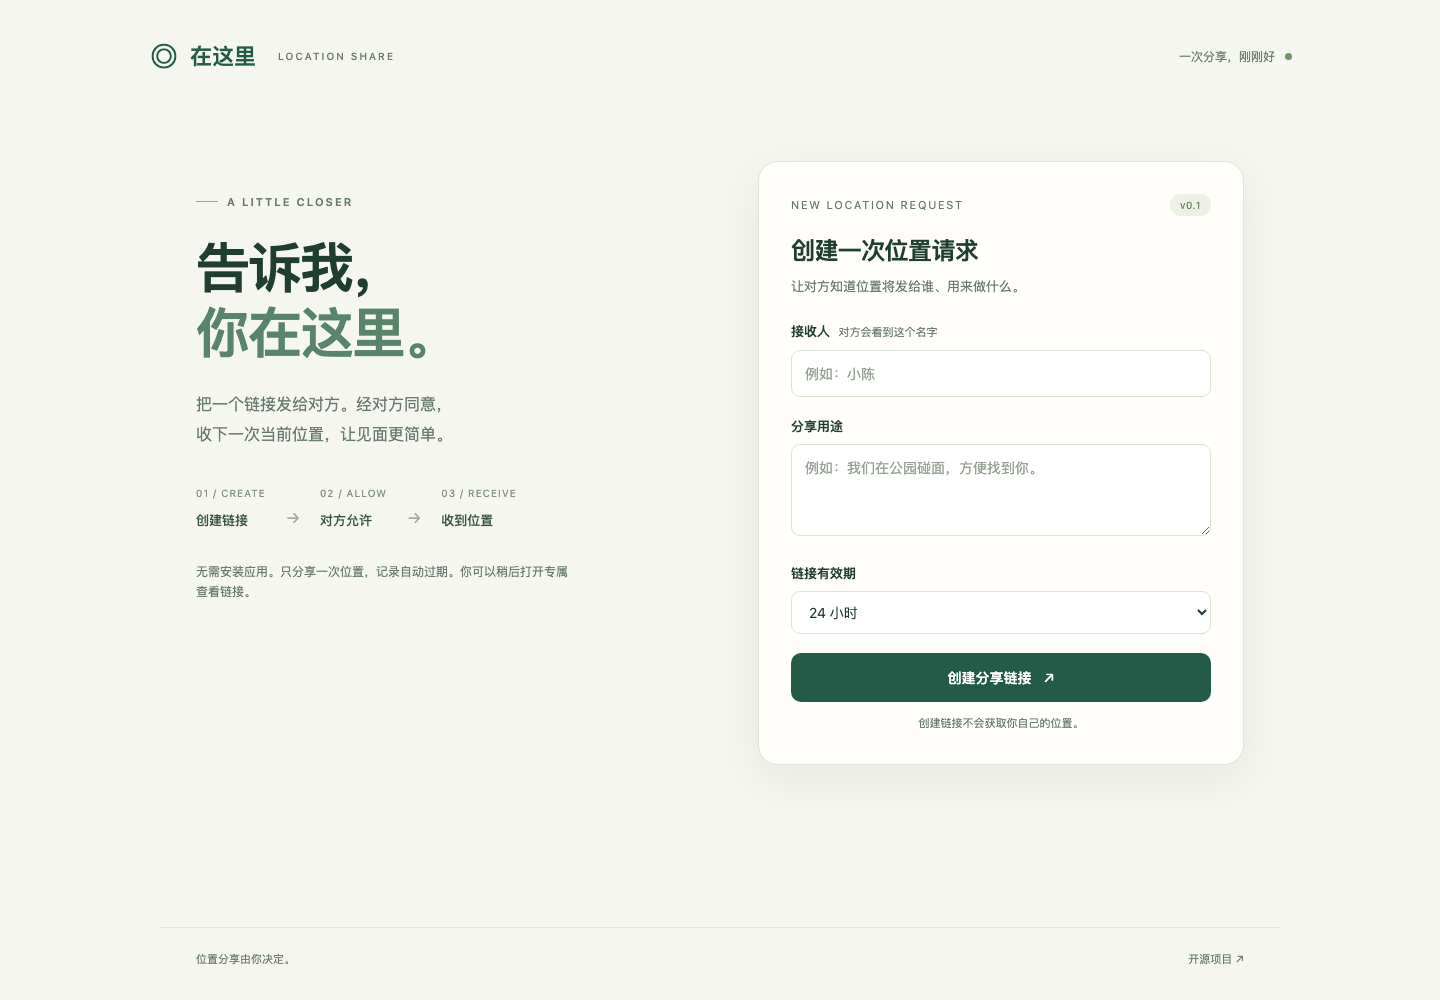
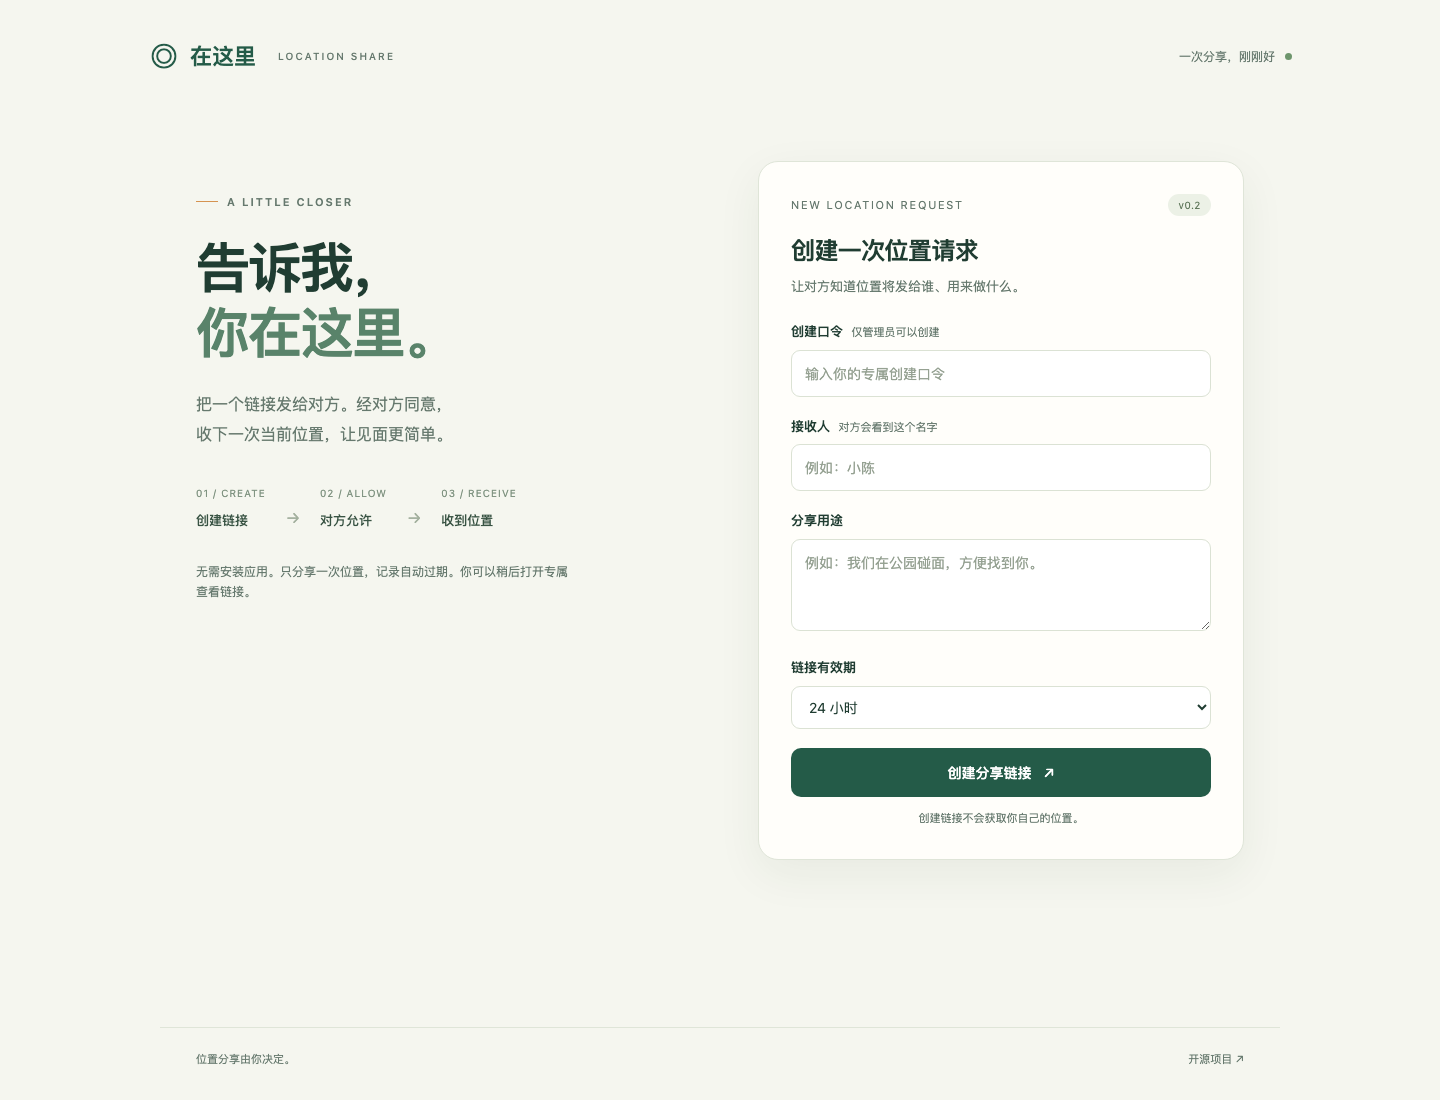
Document live deployment and production verification

diff --git a/docs/validation.md b/docs/validation.md
@@ -2,6 +2,32 @@
 
 验证日期：2026-10-14（Asia/Shanghai）。
 
+## 正式部署
+
+- 正式网址：<https://location.pizzasend.dpdns.org>。
+- Cloudflare Worker：`location-share`，版本 `31dde05f-6753-44e0-90e0-e57c90e4e9cf`。
+- `workers.dev` 及预览网址关闭；网页和 `/api/` 通过同一自定义域名提供。
+- 部署后核对：`signal.pizzasend.dpdns.org` 仍绑定 `pizza-send-signal`；新 location 子域名绑定 `location-share`。数据库及限流绑定独立。
+- 生产创建口令为单独生成的随机凭据，仅把摘要存入 Cloudflare Secret，不使用公开的测试口令，不提交私有管理入口到 GitHub。
+- GitHub 实现提交 `3db93cc` 的自动检查已通过，包含语法检查、9 项状态测试、18 项 Chromium/WebKit 测试和部署打包。
+
+## 公网接口验证
+
+在当前机器网络上使用模拟坐标 `(0, 0)` 验证，没有采集真人位置：
+
+| 检查 | 实际结果 |
+| --- | --- |
+| HTTPS 健康检查 | 200，版本 0.2.0 |
+| 无管理权限创建 | 401 |
+| 管理权限创建 | 201 |
+| 分享权限提交模拟位置 | 200 |
+| 查看权限读取位置 | 200，坐标与精度一致 |
+| 分享权限尝试读取位置 | 401 |
+| 查看权限删除验证记录 | 200 |
+| 删除后再次读取 | 404 |
+
+Chrome 已直接打开正式 HTTPS 页面，确认前端正常渲染。测试记录已清理。当前网络验证不等于大陆无 VPN 或三大运营商的实机可达性验证。
+
 ## 已通过
 
 - JavaScript 语法检查。
